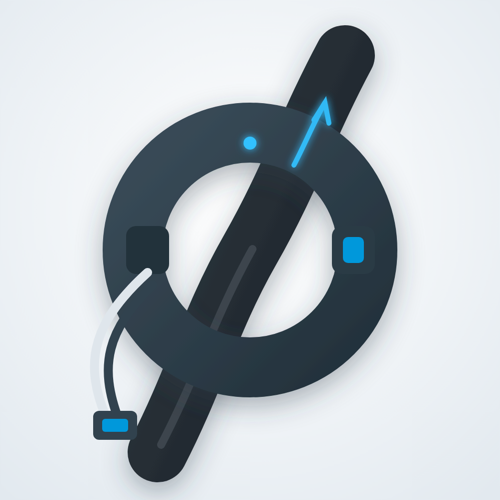
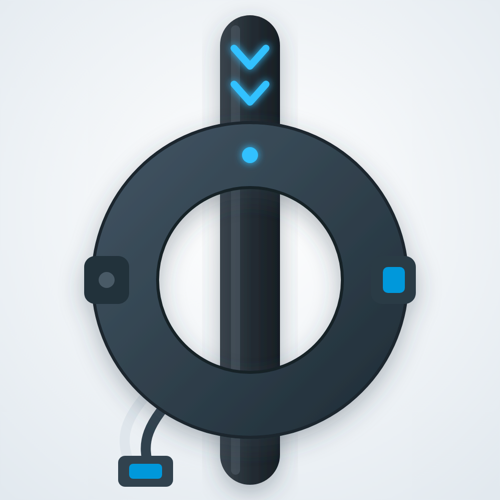
Redraw CT driver artwork as a clear clamp-around-wire
Face-on clamp ring threaded on a straight conductor with hinge, latch,
pigtail leads and current chevrons; replace the CT icon.svg, which was
a leftover panel-with-bolt graphic.

Changed region(s): [[0.15, 0.03, 0.84, 0.99]]

diff --git a/scripts/artwork/ct.html b/scripts/artwork/ct.html
@@ -6,15 +6,16 @@
       <stop offset="1" stop-color="#e2e9ef"/>
     </radialGradient>
     <linearGradient id="ring" x1="0" y1="0" x2="1" y2="1">
-      <stop offset="0" stop-color="#3a4c59"/>
+      <stop offset="0" stop-color="#3f5260"/>
       <stop offset="1" stop-color="#22303a"/>
     </linearGradient>
-    <linearGradient id="cable" x1="0" y1="0" x2="1" y2="1">
-      <stop offset="0" stop-color="#333c44"/>
+    <linearGradient id="cable" x1="0" y1="0" x2="1" y2="0">
+      <stop offset="0" stop-color="#3a444d"/>
+      <stop offset="0.5" stop-color="#242d34"/>
       <stop offset="1" stop-color="#171e24"/>
     </linearGradient>
     <filter id="soft" x="-30%" y="-30%" width="160%" height="160%">
-      <feDropShadow dx="0" dy="18" stdDeviation="26" flood-color="#31424e" flood-opacity="0.38"/>
+      <feDropShadow dx="0" dy="16" stdDeviation="24" flood-color="#31424e" flood-opacity="0.35"/>
     </filter>
     <filter id="glow" x="-80%" y="-80%" width="260%" height="260%">
       <feGaussianBlur stdDeviation="8" result="b"/>
@@ -24,37 +25,41 @@
 
   <rect width="1000" height="1000" fill="url(#bg)"/>
 
-  <!-- conductor cable through the clamp -->
+  <!-- cable, straight through the clamp -->
   <g filter="url(#soft)">
-    <path d="M 315 905 C 390 760 420 640 500 500 C 580 360 615 250 690 110"
-          stroke="url(#cable)" stroke-width="120" fill="none" stroke-linecap="round"/>
-    <path d="M 322 890 C 395 750 428 636 505 498"
-          stroke="#465059" stroke-width="16" fill="none" stroke-linecap="round" opacity="0.7"/>
+    <rect x="440" y="30" width="120" height="940" rx="60" fill="url(#cable)"/>
+    <rect x="462" y="50" width="18" height="900" rx="9" fill="#4a555f" opacity="0.7"/>
   </g>
 
-  <!-- CT clamp ring -->
-  <g filter="url(#soft)">
-    <circle cx="500" cy="500" r="235" fill="none" stroke="url(#ring)" stroke-width="120"/>
-    <!-- hinge & latch details -->
-    <rect x="252" y="452" width="86" height="96" rx="20" fill="#22303a"/>
-    <rect x="664" y="452" width="86" height="96" rx="20" fill="#2b3a45"/>
-    <rect x="686" y="474" width="42" height="52" rx="10" fill="#0098DB"/>
-    <!-- LED -->
-    <circle cx="500" cy="286" r="13" fill="#33c1ff" filter="url(#glow)"/>
+  <!-- current direction chevrons on the cable, above the clamp -->
+  <g stroke="#33c1ff" stroke-width="14" fill="none" stroke-linecap="round" stroke-linejoin="round" filter="url(#glow)">
+    <path d="M 468 96 L 500 132 L 532 96"/>
+    <path d="M 468 168 L 500 204 L 532 168"/>
   </g>
 
-  <!-- pigtail leads to a connector -->
+  <!-- pigtail leads from the clamp to the meter connector -->
   <g fill="none" stroke-linecap="round">
-    <path d="M 295 545 C 190 640 165 720 210 830" stroke="#dfe6ec" stroke-width="18"/>
-    <path d="M 305 570 C 215 660 195 730 238 842" stroke="#31424e" stroke-width="18"/>
+    <path d="M 330 750 C 250 830 235 870 260 930" stroke="#dfe6ec" stroke-width="20"/>
+    <path d="M 362 776 C 292 850 280 884 300 942" stroke="#31424e" stroke-width="20"/>
   </g>
-  <rect x="186" y="822" width="88" height="58" rx="12" fill="#31424e"/>
-  <rect x="204" y="838" width="52" height="26" rx="6" fill="#0098DB"/>
+  <rect x="236" y="912" width="110" height="62" rx="14" fill="#31424e"/>
+  <rect x="258" y="928" width="66" height="30" rx="8" fill="#0098DB"/>
 
-  <!-- little current arrow along the cable -->
-  <g stroke="#33c1ff" stroke-width="10" fill="none" stroke-linecap="round" filter="url(#glow)" opacity="0.95">
-    <path d="M 588 330 C 610 288 625 250 650 205"/>
-    <path d="M 628 240 L 650 205 L 658 246"/>
+  <!-- CT clamp ring, face-on around the cable -->
+  <g filter="url(#soft)">
+    <circle cx="500" cy="560" r="250" fill="none" stroke="url(#ring)" stroke-width="130"/>
+    <!-- inner + outer rim lines for depth -->
+    <circle cx="500" cy="560" r="315" fill="none" stroke="#1a252d" stroke-width="6"/>
+    <circle cx="500" cy="560" r="185" fill="none" stroke="#152028" stroke-width="6"/>
+    <!-- hinge (left) -->
+    <rect x="168" y="512" width="90" height="96" rx="22" fill="#22303a"/>
+    <circle cx="213" cy="560" r="16" fill="#4a5a66"/>
+    <!-- latch (right) with blue release clip -->
+    <rect x="742" y="512" width="90" height="96" rx="22" fill="#2b3a45"/>
+    <rect x="766" y="534" width="44" height="52" rx="10" fill="#0098DB"/>
+    <!-- LED -->
+    <circle cx="500" cy="310" r="16" fill="#33c1ff" filter="url(#glow)"/>
   </g>
+
 </svg>
 </body></html>

diff --git a/CHANGELOG.md b/CHANGELOG.md
@@ -13,6 +13,14 @@ All notable changes to this project are recorded here, newest first.
 >   fixes = patch, new cards/capabilities = minor, breaking = major.
 > - Entries say what a **user** will notice, not which files changed.
 
+## Unreleased
+
+### Fixed
+- **Current Transformer artwork redrawn** so it actually depicts the device: the driver images now
+  show the clamp face-on around a straight conductor (with hinge, latch, pigtail leads, and current
+  chevrons), and the driver's `icon.svg` — previously a leftover panel-with-bolt graphic — is now a
+  matching clamp-around-wire icon.
+
 ## 1.0.6 — 2026-07-27
 
 First App Store build under the final app id (pending certification; 1.0.5 was consumed
